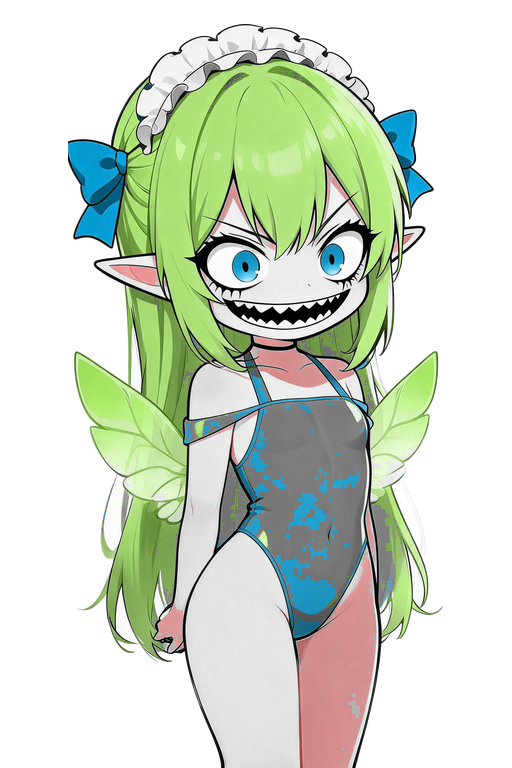
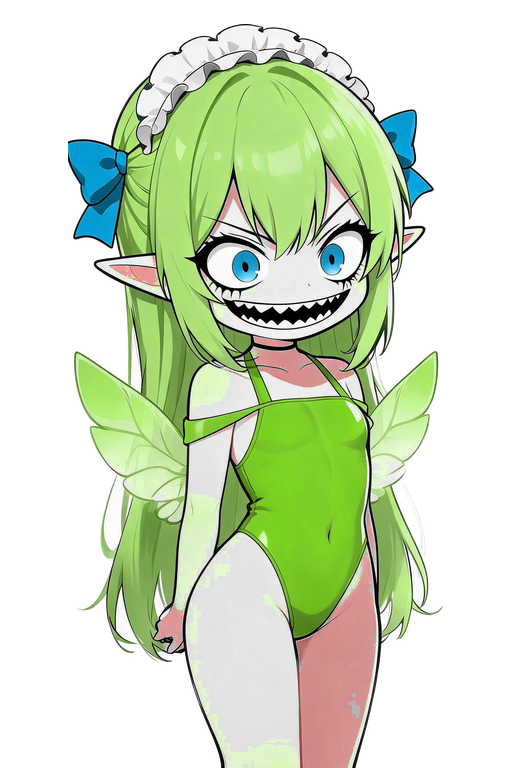
art: 玛丽苏/魔姬新画风表情重制（得意/嘲笑/渗人/假惺惺/战败 + 坐姿闭睁眼/备战），调色工具修青绿重叠

diff --git a/tools/unify_palette.py b/tools/unify_palette.py
@@ -43,18 +43,20 @@ def unify(src, dst, gray_steps=GRAY_STEPS):
             # 浅粉色腮红会被误判成高饱和红色）
             near_red = deg <= 14 or deg >= 346
             near_cyan = abs(deg - CYAN_HUE) <= 45
-            near_green = abs(deg - GREEN_HUE) <= 55
+            near_green = abs(deg - GREEN_HUE) <= 78
 
+            # 绿要先于青判定：黄绿(89°)与青(196°)之间有重叠带(151-167)，
+            # 重叠区归绿，否则玛丽苏的绿泳衣上会冒出青色斑点
             if near_red and chroma >= 0.25:
                 rr, gg, bb = colorsys.hls_to_rgb(0.0, ll, ss)
                 px[x, y] = (int(rr * 255 + 0.5), int(gg * 255 + 0.5), int(bb * 255 + 0.5), a)
                 locked += 1
-            elif near_cyan and chroma >= 0.15:
-                rr, gg, bb = colorsys.hls_to_rgb(CYAN_HUE / 360.0, ll, ss)
-                px[x, y] = (int(rr * 255 + 0.5), int(gg * 255 + 0.5), int(bb * 255 + 0.5), a)
-                locked += 1
             elif near_green and chroma >= 0.15:
                 rr, gg, bb = colorsys.hls_to_rgb(GREEN_HUE / 360.0, ll, ss)
+                px[x, y] = (int(rr * 255 + 0.5), int(gg * 255 + 0.5), int(bb * 255 + 0.5), a)
+                locked += 1
+            elif near_cyan and chroma >= 0.15:
+                rr, gg, bb = colorsys.hls_to_rgb(CYAN_HUE / 360.0, ll, ss)
                 px[x, y] = (int(rr * 255 + 0.5), int(gg * 255 + 0.5), int(bb * 255 + 0.5), a)
                 locked += 1
             else:
